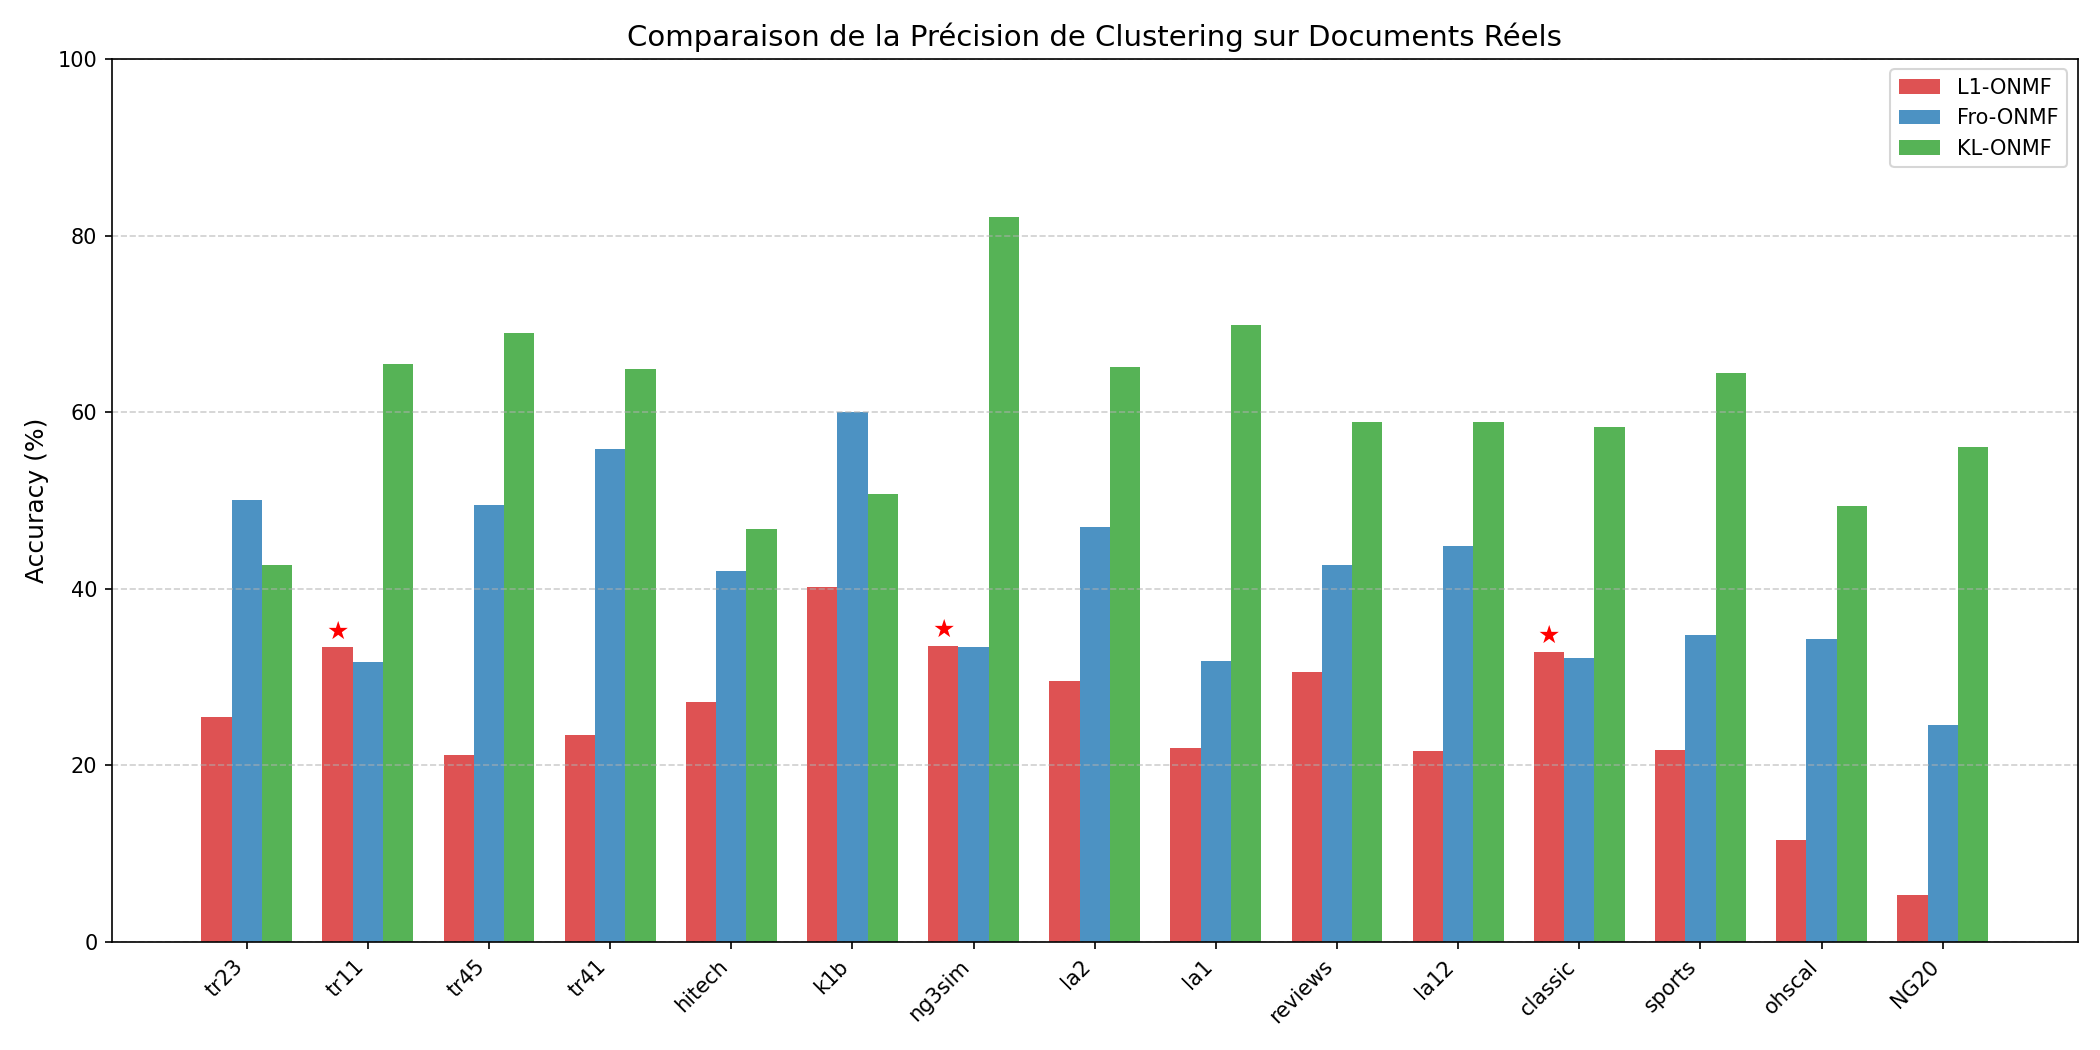
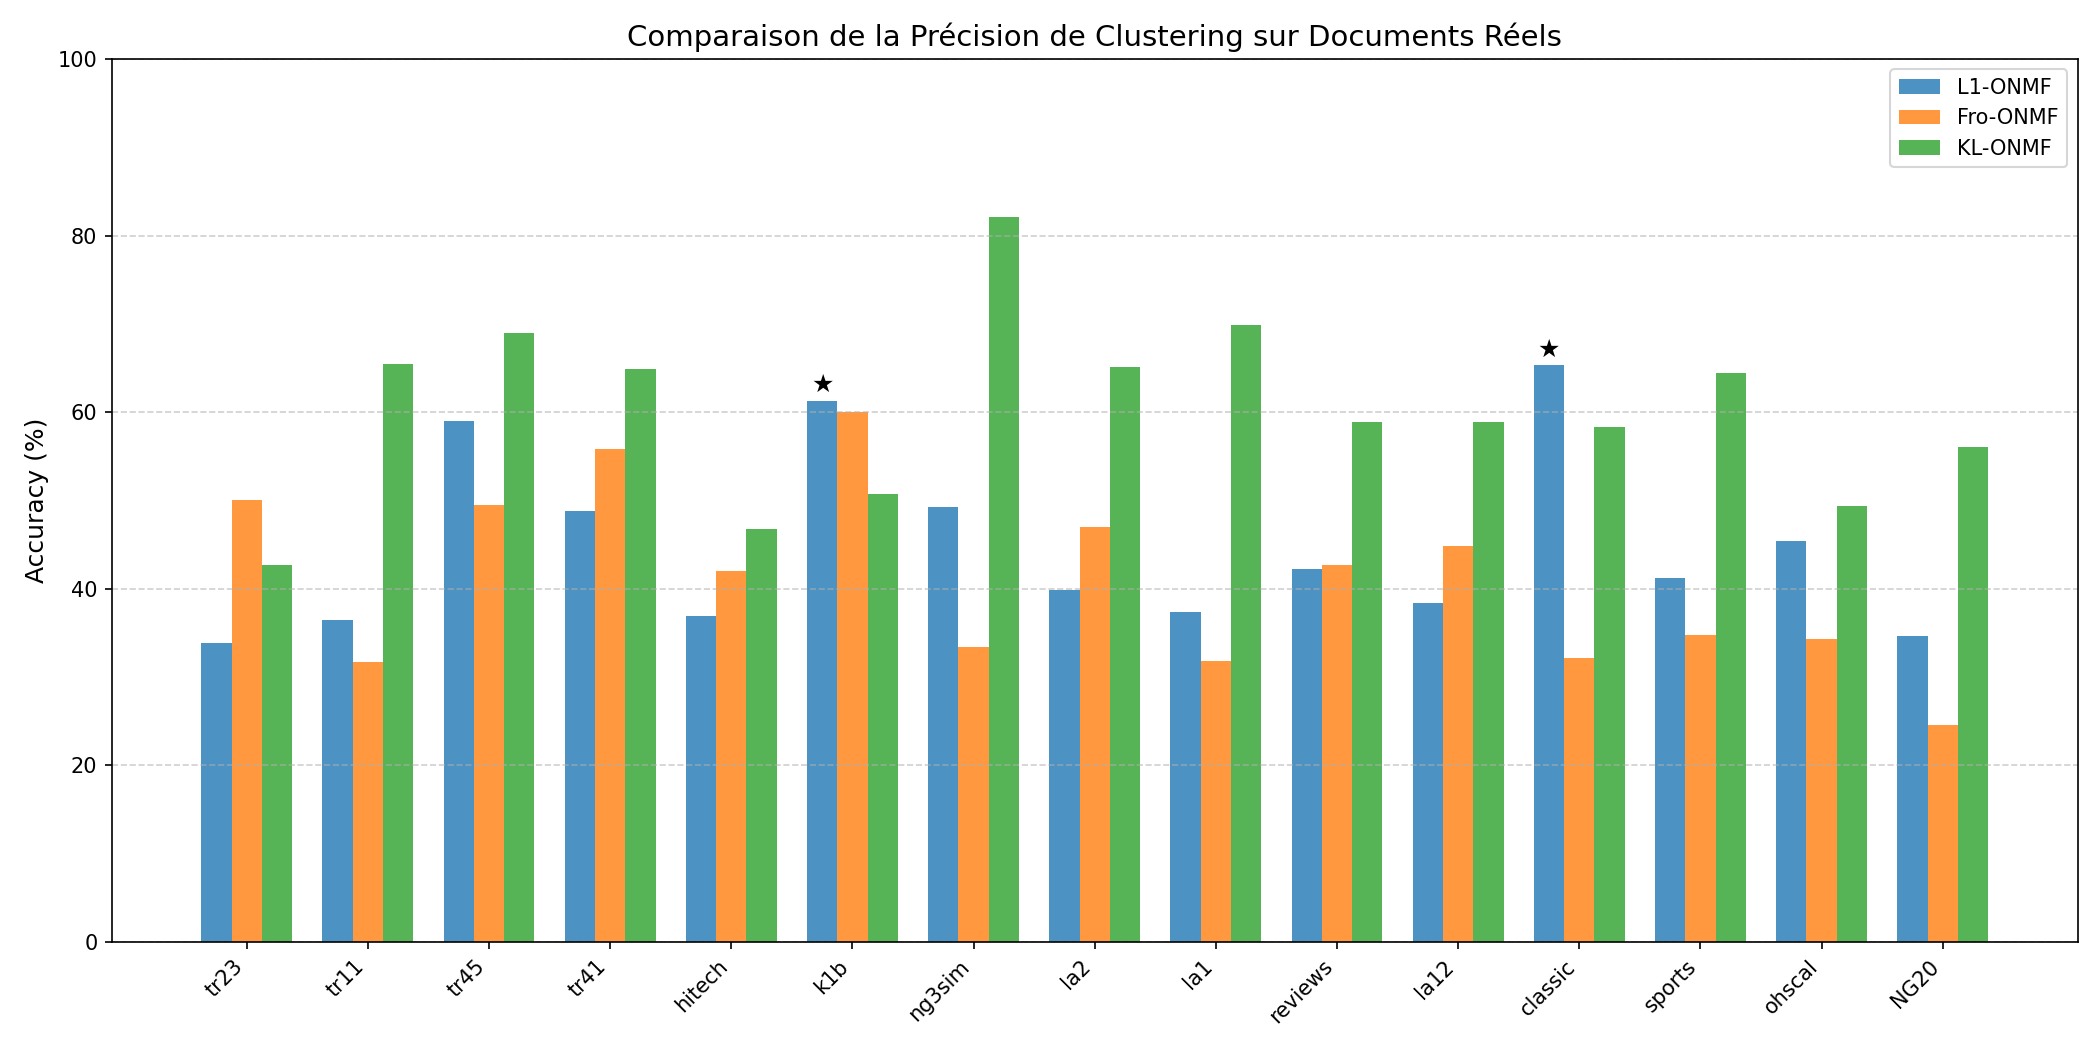
add plot

diff --git a/experiments/plot.py b/experiments/plot.py
@@ -3,10 +3,12 @@ import pandas as pd
 import matplotlib.pyplot as plt
 import numpy as np
 from pathlib import Path
-import sys
 
 # --- CONFIGURATION ---
-CSV_FILE = Path(__file__).parent / "table_comparative_real_docs.csv"
+CSV_FILE = Path(__file__).parent / "../docs_full_comparison.csv"
+# Si tu utilises le nouveau CSV généré: remplace par
+# CSV_FILE = Path(__file__).parent / "../docs_full_from_latex_in_sample_schema.csv"
+
 OUT_DIR = Path(__file__).parent / "plots" / "docs"
 OUT_DIR.mkdir(parents=True, exist_ok=True)
 
@@ -15,13 +17,29 @@ def plot_results():
         print(f"Erreur: Le fichier {CSV_FILE} n'existe pas.")
         return
 
-    # Chargement des données
     df = pd.read_csv(CSV_FILE)
-    
-    # Tri par taille de dataset (n) pour la lisibilité
-    df = df.sort_values('n')
-    
-    datasets = df['dataset'].str.replace('.mat', '', regex=False)
+
+    # -------------------------
+    # NETTOYAGE (IMPORTANT)
+    # -------------------------
+    # Enlever lignes sans dataset (ligne vide finale) + enlever "Averages" pour les plots dataset-par-dataset
+    df["dataset"] = df["dataset"].astype("string")
+    df = df[df["dataset"].notna() & (df["dataset"].str.strip() != "")]
+    df = df[df["dataset"].str.lower() != "averages"]
+
+    # Convertir colonnes numériques proprement (au cas où des champs vides existent)
+    num_cols = ["n","m","r","acc_L1","acc_Fro","acc_KL","time_L1","time_Fro","time_KL","it_L1","it_Fro","it_KL"]
+    for c in num_cols:
+        if c in df.columns:
+            df[c] = pd.to_numeric(df[c], errors="coerce")
+
+    # Garder uniquement les lignes complètes pour les plots
+    df = df.dropna(subset=["n","acc_L1","acc_Fro","acc_KL","time_L1","time_Fro","time_KL"])
+
+    # Tri par taille (n)
+    df = df.sort_values("n").reset_index(drop=True)
+
+    datasets = df["dataset"].str.replace(".mat", "", regex=False).tolist()
     x = np.arange(len(datasets))
     width = 0.25
 
@@ -29,49 +47,52 @@ def plot_results():
     # PLOT 1: ACCURACY COMPARISON
     # ==========================================
     plt.figure(figsize=(14, 7))
-    
-    # Barres
-    plt.bar(x - width, df['acc_L1'], width, label='L1-ONMF', color='#d62728', alpha=0.8)
-    plt.bar(x, df['acc_Fro'], width, label='Fro-ONMF', color='#1f77b4', alpha=0.8)
-    plt.bar(x + width, df['acc_KL'], width, label='KL-ONMF', color='#2ca02c', alpha=0.8)
-    
-    # Esthétique
-    plt.ylabel('Accuracy (%)', fontsize=12)
-    plt.title('Comparaison de la Précision de Clustering sur Documents Réels', fontsize=14)
-    plt.xticks(x, datasets, rotation=45, ha='right')
+
+    plt.bar(x - width, df["acc_L1"],  width, label="L1-ONMF", alpha=0.8)
+    plt.bar(x,         df["acc_Fro"], width, label="Fro-ONMF", alpha=0.8)
+    plt.bar(x + width, df["acc_KL"],  width, label="KL-ONMF", alpha=0.8)
+
+    plt.ylabel("Accuracy (%)", fontsize=12)
+    plt.title("Comparaison de la Précision de Clustering sur Documents Réels", fontsize=14)
+    plt.xticks(x, datasets, rotation=45, ha="right")
     plt.legend()
-    plt.grid(axis='y', linestyle='--', alpha=0.6)
+    plt.grid(axis="y", linestyle="--", alpha=0.6)
     plt.ylim(0, 100)
-    
-    # Annoter les victoires de L1 sur Fro
+
+    # Annoter seulement quand L1 bat Fro ET KL
     for i in range(len(df)):
-        if df['acc_L1'].iloc[i] > df['acc_Fro'].iloc[i]:
-            plt.text(x[i] - width, df['acc_L1'].iloc[i] + 1, "★", 
-                     ha='center', color='red', fontsize=12, fontweight='bold')
+        l1  = df["acc_L1"].iloc[i]
+        fro = df["acc_Fro"].iloc[i]
+        kl  = df["acc_KL"].iloc[i]
+        if (l1 > fro) and (l1 > kl):
+            plt.text(x[i] - width, l1 + 1, "★", ha="center", fontsize=12, fontweight="bold")
 
     plt.tight_layout()
-    plt.savefig(OUT_DIR / "docs_accuracy_comparison.png", dpi=150)
-    print(f"Graphique sauvegardé : {OUT_DIR / 'docs_accuracy_comparison.png'}")
+    out1 = OUT_DIR / "docs_accuracy_comparison.png"
+    plt.savefig(out1, dpi=150)
+    print(f"Graphique sauvegardé : {out1}")
 
     # ==========================================
     # PLOT 2: TIME COMPARISON (Log Scale)
     # ==========================================
     plt.figure(figsize=(14, 6))
-    
-    plt.plot(datasets, df['time_L1'], 'o-', label='L1-ONMF', color='#d62728')
-    plt.plot(datasets, df['time_Fro'], 's-', label='Fro-ONMF', color='#1f77b4')
-    plt.plot(datasets, df['time_KL'], '^-', label='KL-ONMF', color='#2ca02c')
-    
-    plt.yscale('log') # Log scale car L1 est beaucoup plus lent
-    plt.ylabel('Time (seconds) - Log Scale', fontsize=12)
-    plt.title('Comparaison des Temps de Calcul', fontsize=14)
-    plt.xticks(rotation=45, ha='right')
+
+    # IMPORTANT: on utilise x (indices) => plus de problème de catégories/NaN
+    plt.plot(x, df["time_L1"],  "o-", label="L1-ONMF")
+    plt.plot(x, df["time_Fro"], "s-", label="Fro-ONMF")
+    plt.plot(x, df["time_KL"],  "^-", label="KL-ONMF")
+
+    plt.yscale("log")
+    plt.ylabel("Time (seconds) - Log Scale", fontsize=12)
+    plt.title("Comparaison des Temps de Calcul", fontsize=14)
+    plt.xticks(x, datasets, rotation=45, ha="right")
     plt.grid(True, which="both", ls="-", alpha=0.5)
     plt.legend()
-    
+
     plt.tight_layout()
-    plt.savefig(OUT_DIR / "docs_time_comparison.png", dpi=150)
-    print(f"Graphique sauvegardé : {OUT_DIR / 'docs_time_comparison.png'}")
+    out2 = OUT_DIR / "docs_time_comparison.png"
+    plt.savefig(out2, dpi=150)
+    print(f"Graphique sauvegardé : {out2}")
 
 if __name__ == "__main__":
     plot_results()

diff --git a/experiments/doc_experiments.py b/experiments/doc_experiments.py
@@ -89,7 +89,7 @@ def run_one(path):
     
     X = X_t.T # (m, n)
 
-    # 3. NORMALISATION CRITIQUE
+    # 3. NORMALISATION CRITIQUE$$
     # Indispensable pour que K-Means (l'init) et L1 (l'algo) voient la même géométrie
     X = normalize(X, norm='l1', axis=0)
 
